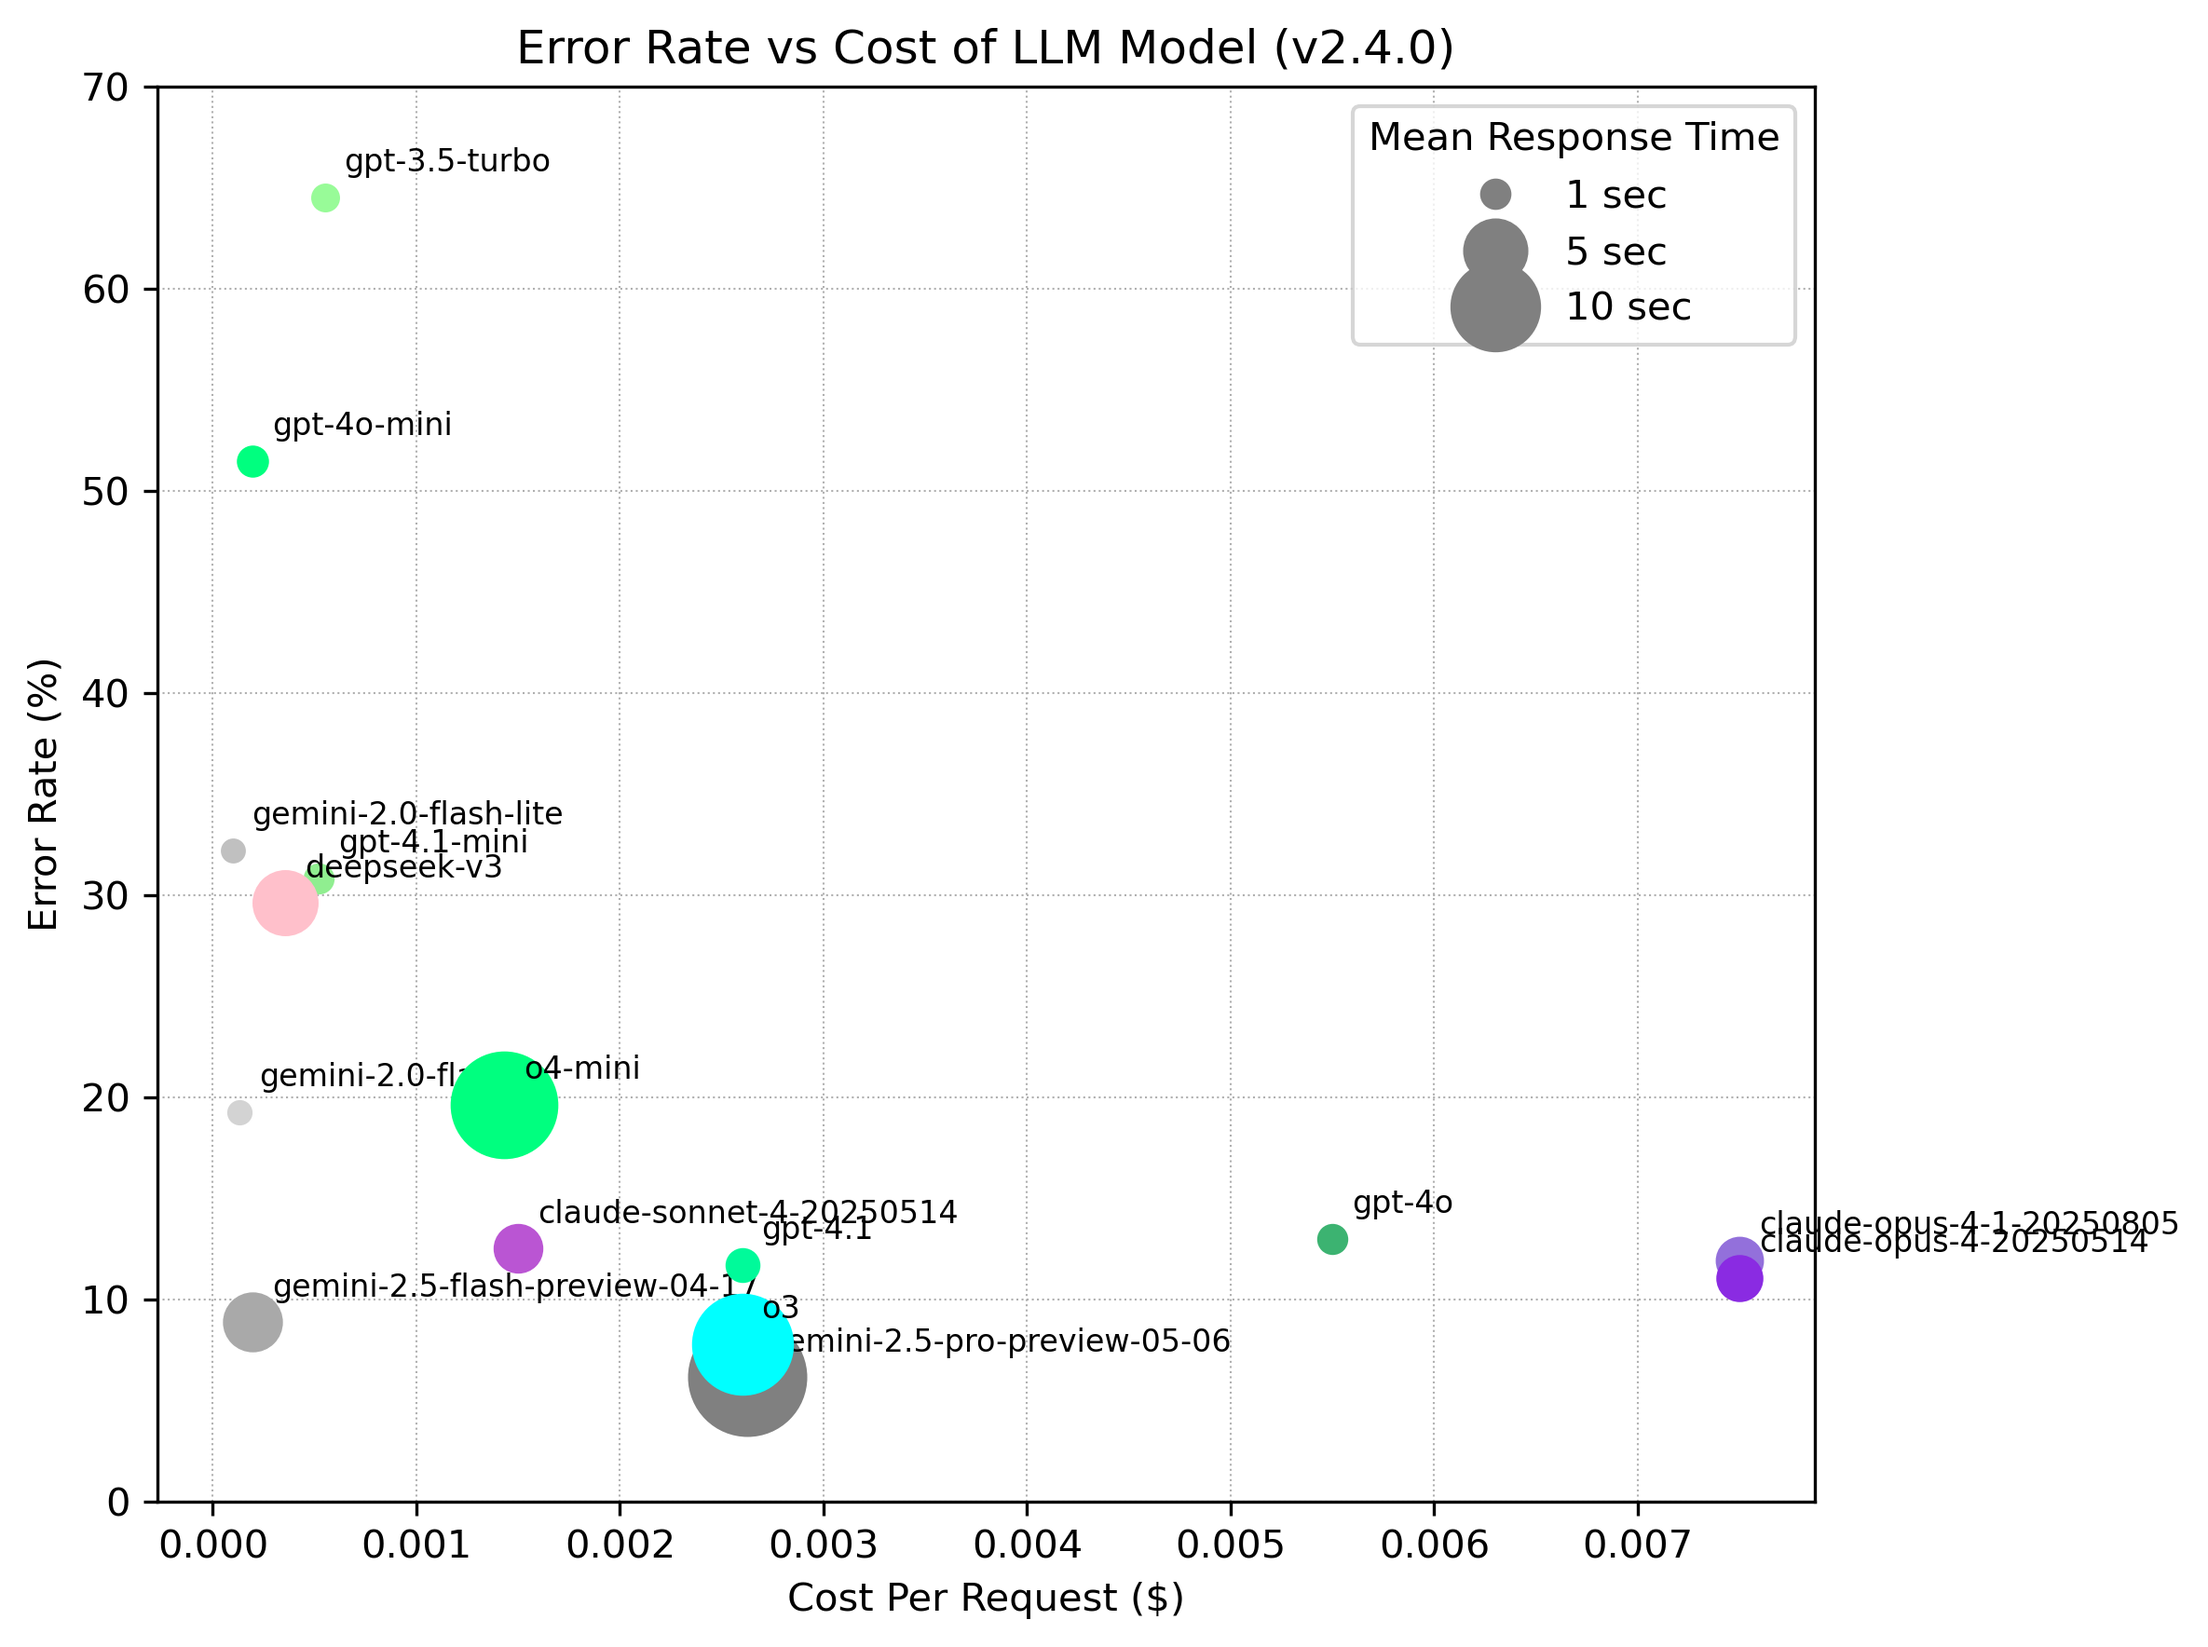
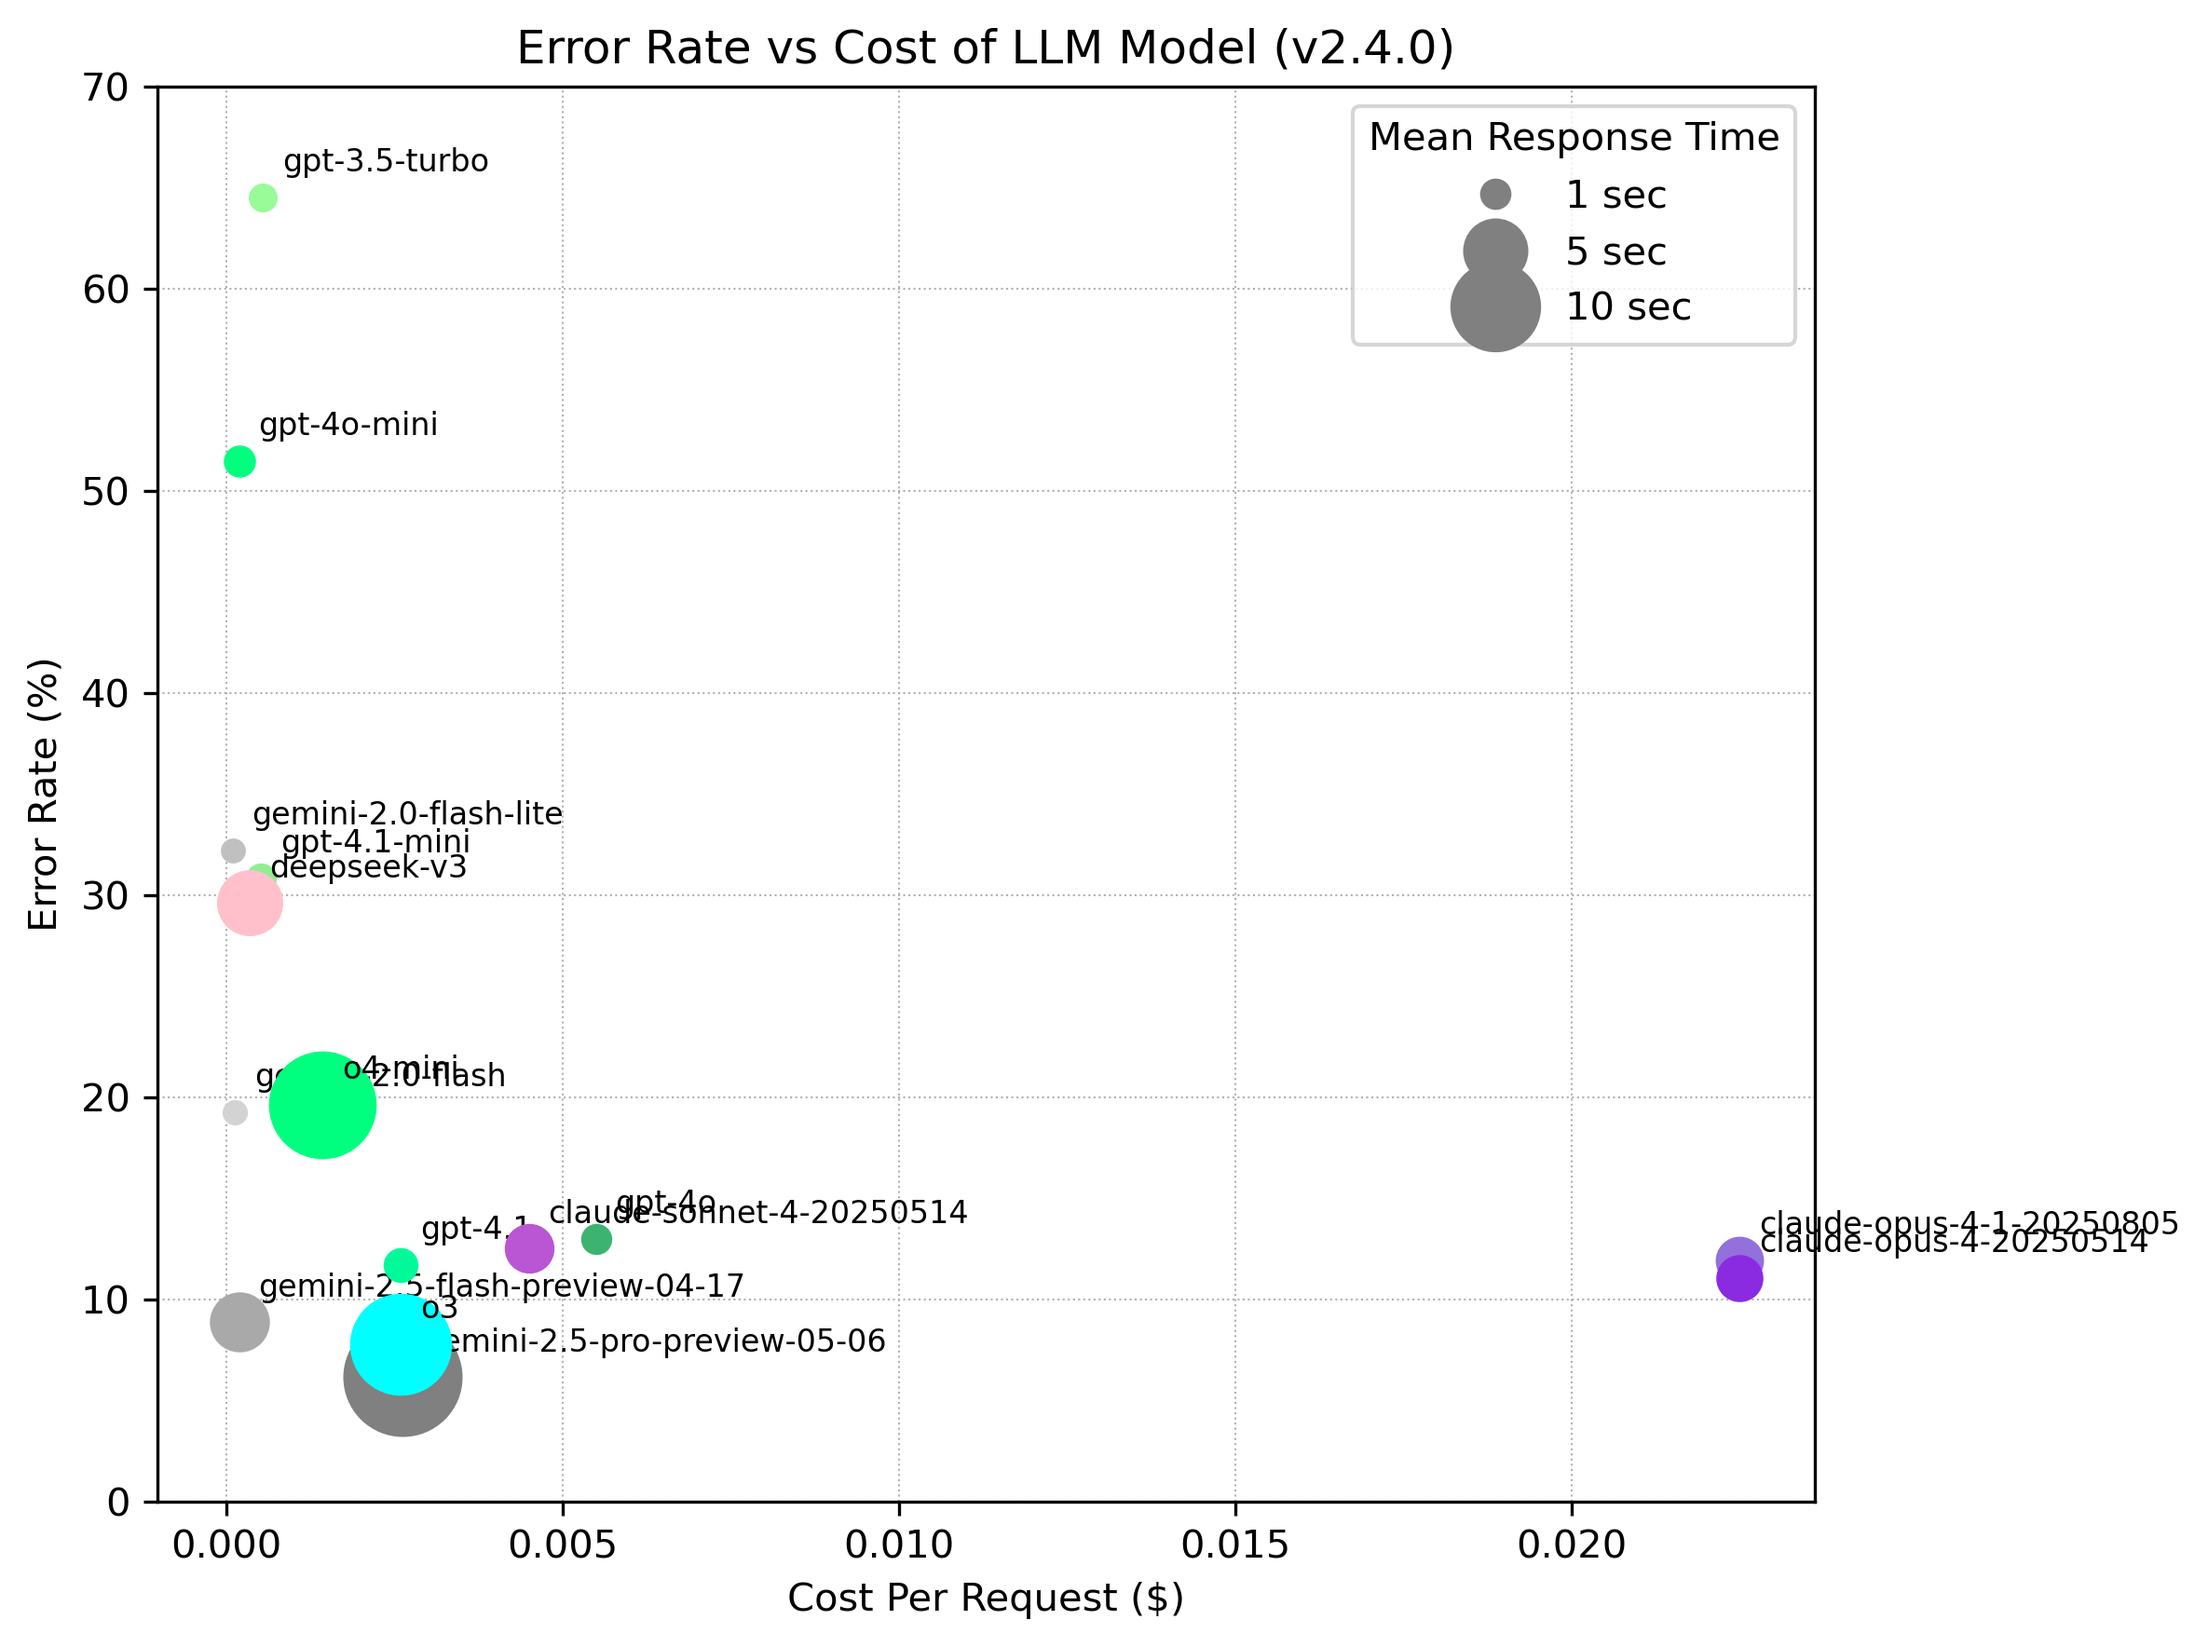
Claudeのモデルのコストをサイトから取得して更新した

diff --git a/benchmark/plot_errorrate_vs_cost.py b/benchmark/plot_errorrate_vs_cost.py
@@ -22,7 +22,9 @@ from matplotlib.lines import Line2D
 # マスタ情報 (コスト & 色)
 # ---------------------------------------------------------------------------
 # 価格は sumibi_typical_convert_client のプロンプト (入力500トークン、出力200トークン) を想定し、
-# Text tokens per 1M tokens: Input $2.00, Cached input $0.50, Output $8.00 に基づき計算
+# Anthropic 公式価格表に基づき計算
+# Claude Opus 4: Input $15/1M, Output $75/1M → $0.0225
+# Claude Sonnet 4: Input $3/1M, Output $15/1M → $0.0045
 MASTER_COST: Dict[str, float] = {
     "gpt-3.5-turbo": 0.00055,
     "gpt-4.1-mini": 0.00052,
@@ -36,9 +38,9 @@ MASTER_COST: Dict[str, float] = {
     "gemini-2.0-flash-lite": 0.0000975,
     "gemini-2.5-flash-preview-04-17": 0.000195,
     "gemini-2.5-pro-preview-05-06": 0.002625,
-    "claude-opus-4-1-20250805": 0.00750,
-    "claude-opus-4-20250514": 0.00750,
-    "claude-sonnet-4-20250514": 0.00150,
+    "claude-opus-4-1-20250805": 0.0225,
+    "claude-opus-4-20250514": 0.0225,
+    "claude-sonnet-4-20250514": 0.0045,
 }
 
 # モデルごとの基本色。matplotlib の named color もしくは hex
@@ -187,6 +189,8 @@ def build_legend():
 def main():
     parser = argparse.ArgumentParser(description="Plot error rate vs cost (v2.4.0)")
     parser.add_argument("-o", "--output", help="Output image file path")
+    parser.add_argument("--range", type=int, default=0, choices=[0, 1],
+                        help="Axis range mode: 0=default (0-70%%, auto x), 1=zoomed (0-35%%, 0-0.006$)")
     args = parser.parse_args()
 
     plt.figure(figsize=(8, 6))
@@ -205,13 +209,24 @@ def main():
     # 軸設定
     plt.xlabel("Cost Per Request ($)")
     plt.ylabel("Error Rate (%)")
-    plt.title("Error Rate vs Cost of LLM Model (v2.4.0)")
+    
+    # タイトル設定
+    if args.range == 1:
+        plt.title("Error Rate vs Cost of LLM Model (v2.4.0) - Zoomed")
+    else:
+        plt.title("Error Rate vs Cost of LLM Model (v2.4.0)")
+    
     plt.grid(True, which="both", linestyle=":", linewidth=0.5)
 
-    # Y 軸 0–70 %
-    plt.ylim(0, 70)
-    # 余白 (x 軸)
-    plt.margins(x=0.05)
+    # 軸範囲設定
+    if args.range == 0:
+        # デフォルト範囲
+        plt.ylim(0, 70)
+        plt.margins(x=0.05)
+    elif args.range == 1:
+        # ズーム範囲
+        plt.ylim(0, 35)
+        plt.xlim(0, 0.006)
 
     # 座標スケールを線形のまま維持（必要に応じて変更可）
 

diff --git a/benchmark/README.md b/benchmark/README.md
@@ -44,8 +44,14 @@ response = self.client.chat.completions.create(
 
 ## 測定結果グラフ
 
+### エラー率 vs コスト（全体表示）
 ![plot1](../images/plot_errorrate_vs_cost_1000x600.png)
 
+### エラー率 vs コスト（ズーム表示）
+低コスト・低エラー率の実用的なモデルに焦点を当てた詳細表示（エラー率0-35%、コスト0-0.006$の範囲）
+![plot1_zoomed](../images/plot_errorrate_vs_cost_zoomed_1000x600.png)
+
+### 平均応答時間とエラー率
 ![plot2](../images/plot_mean_response_time_1000x600.png)
 
 ## 傾向分析
